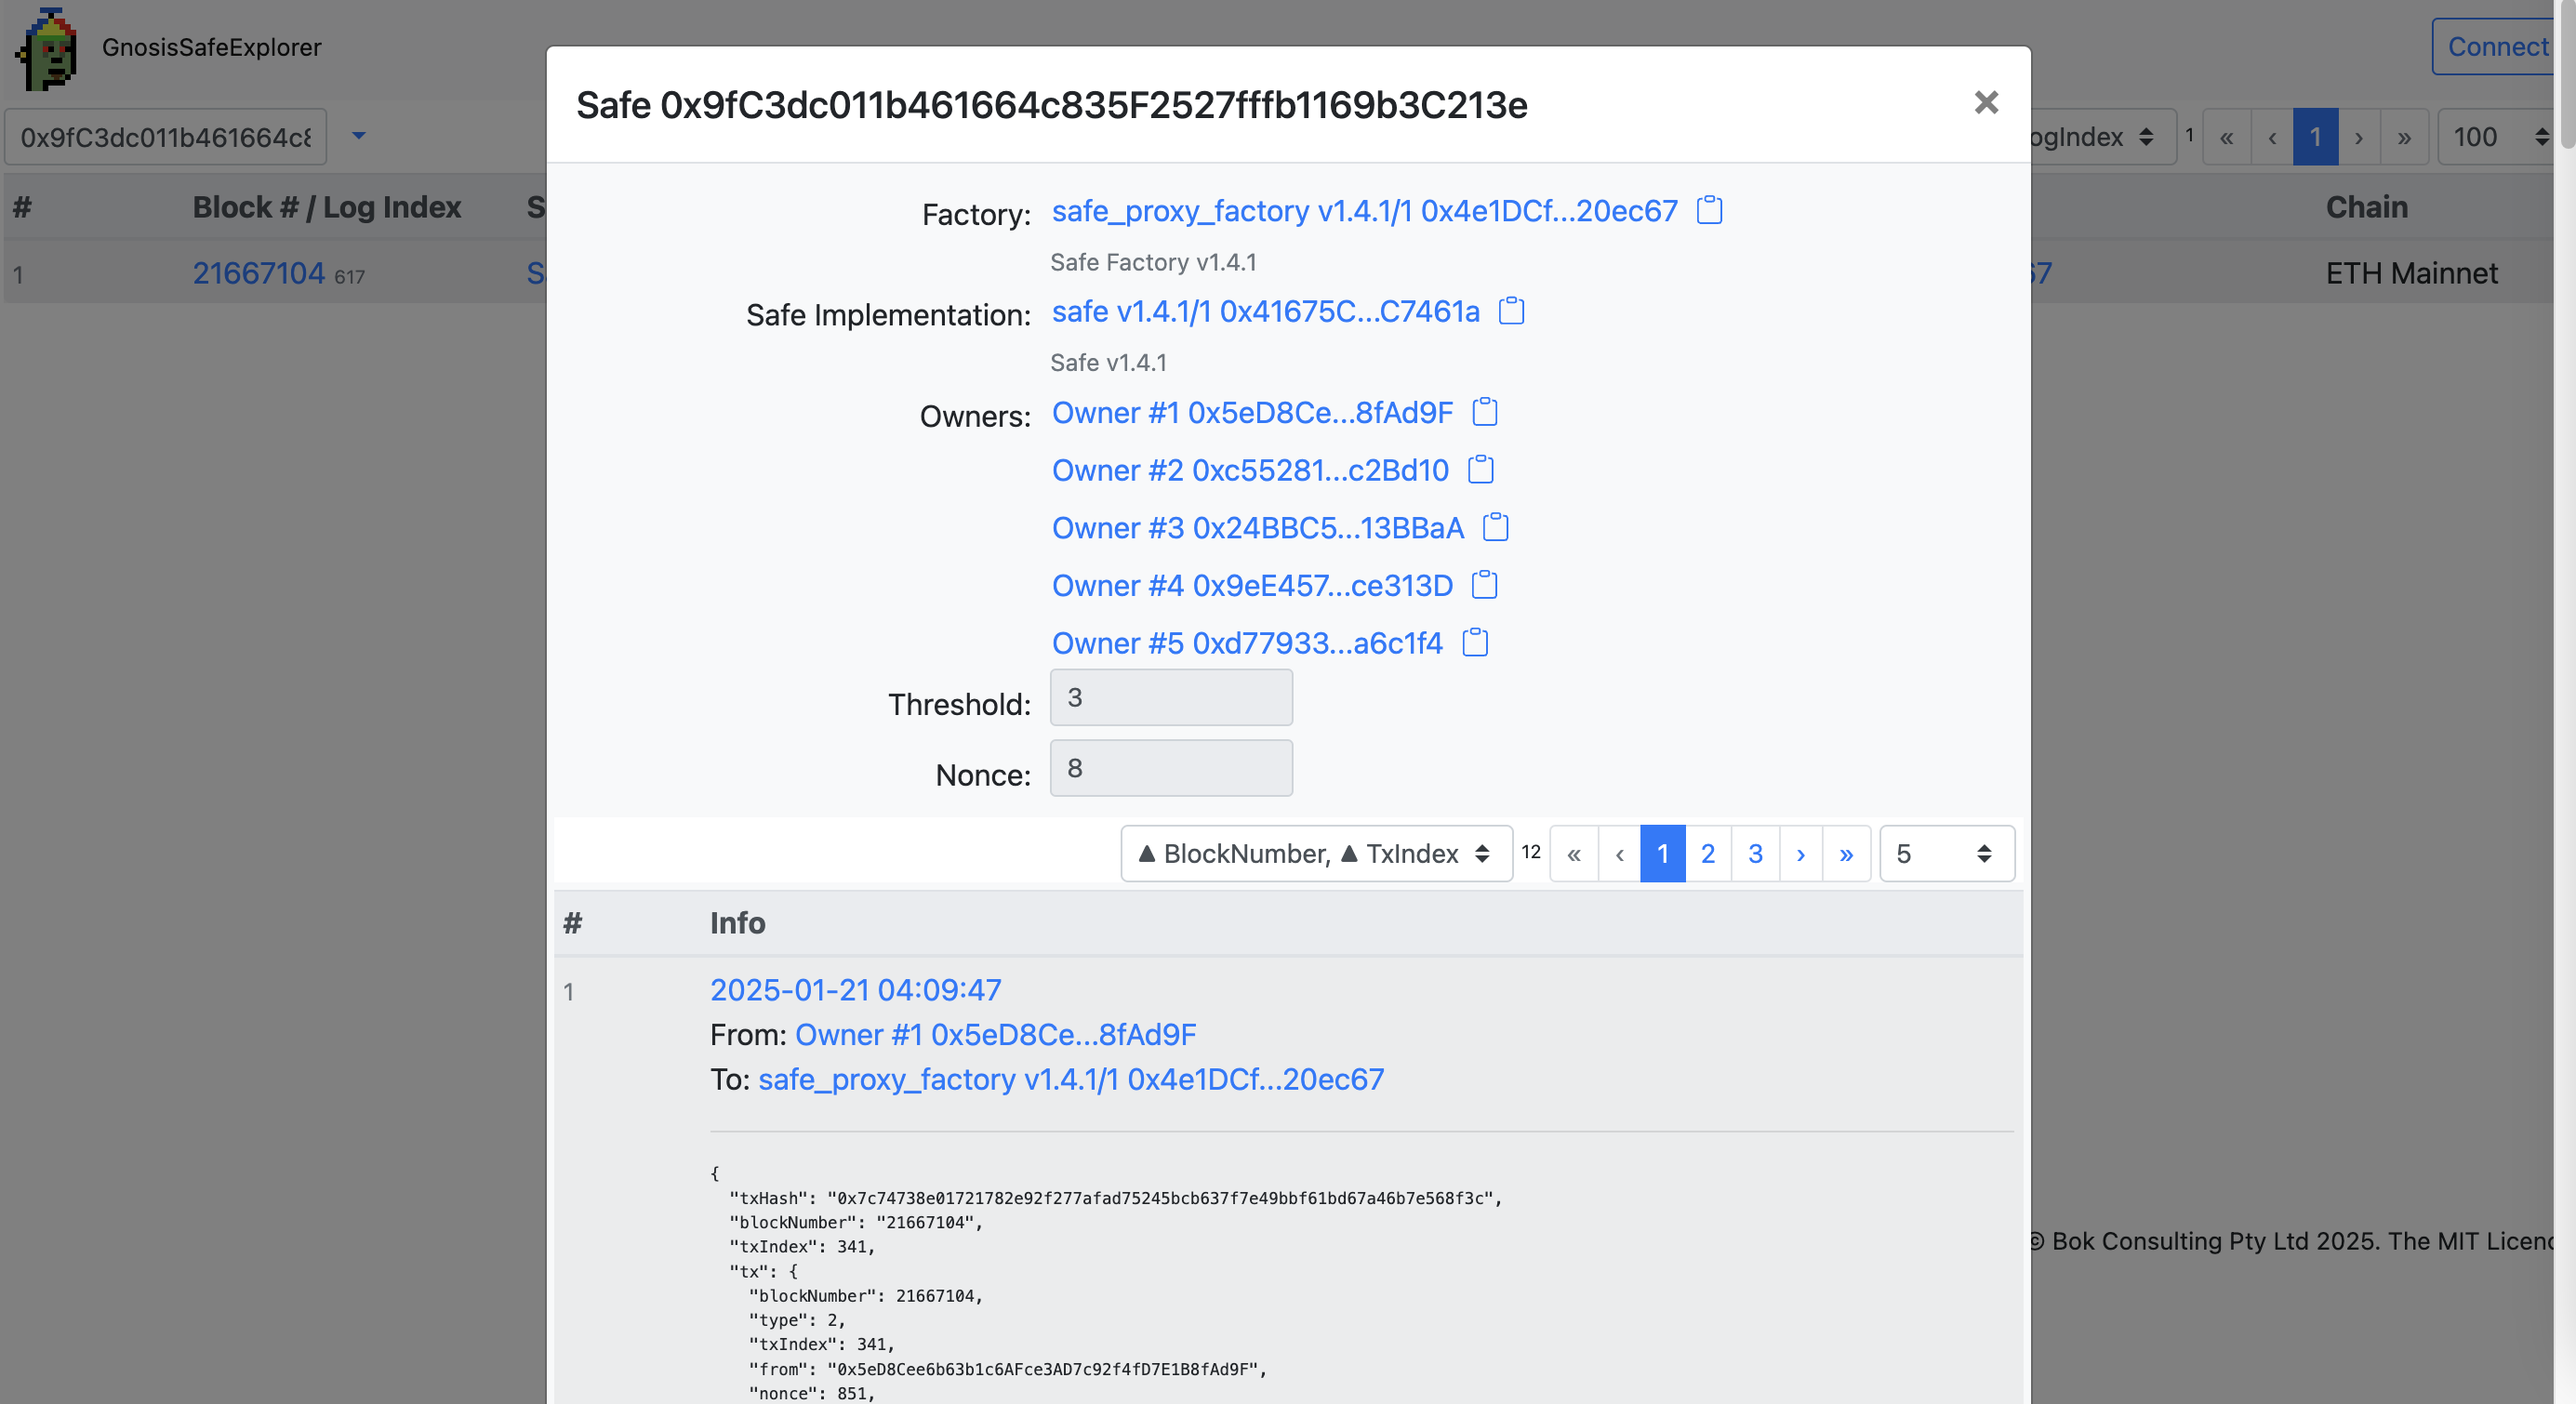
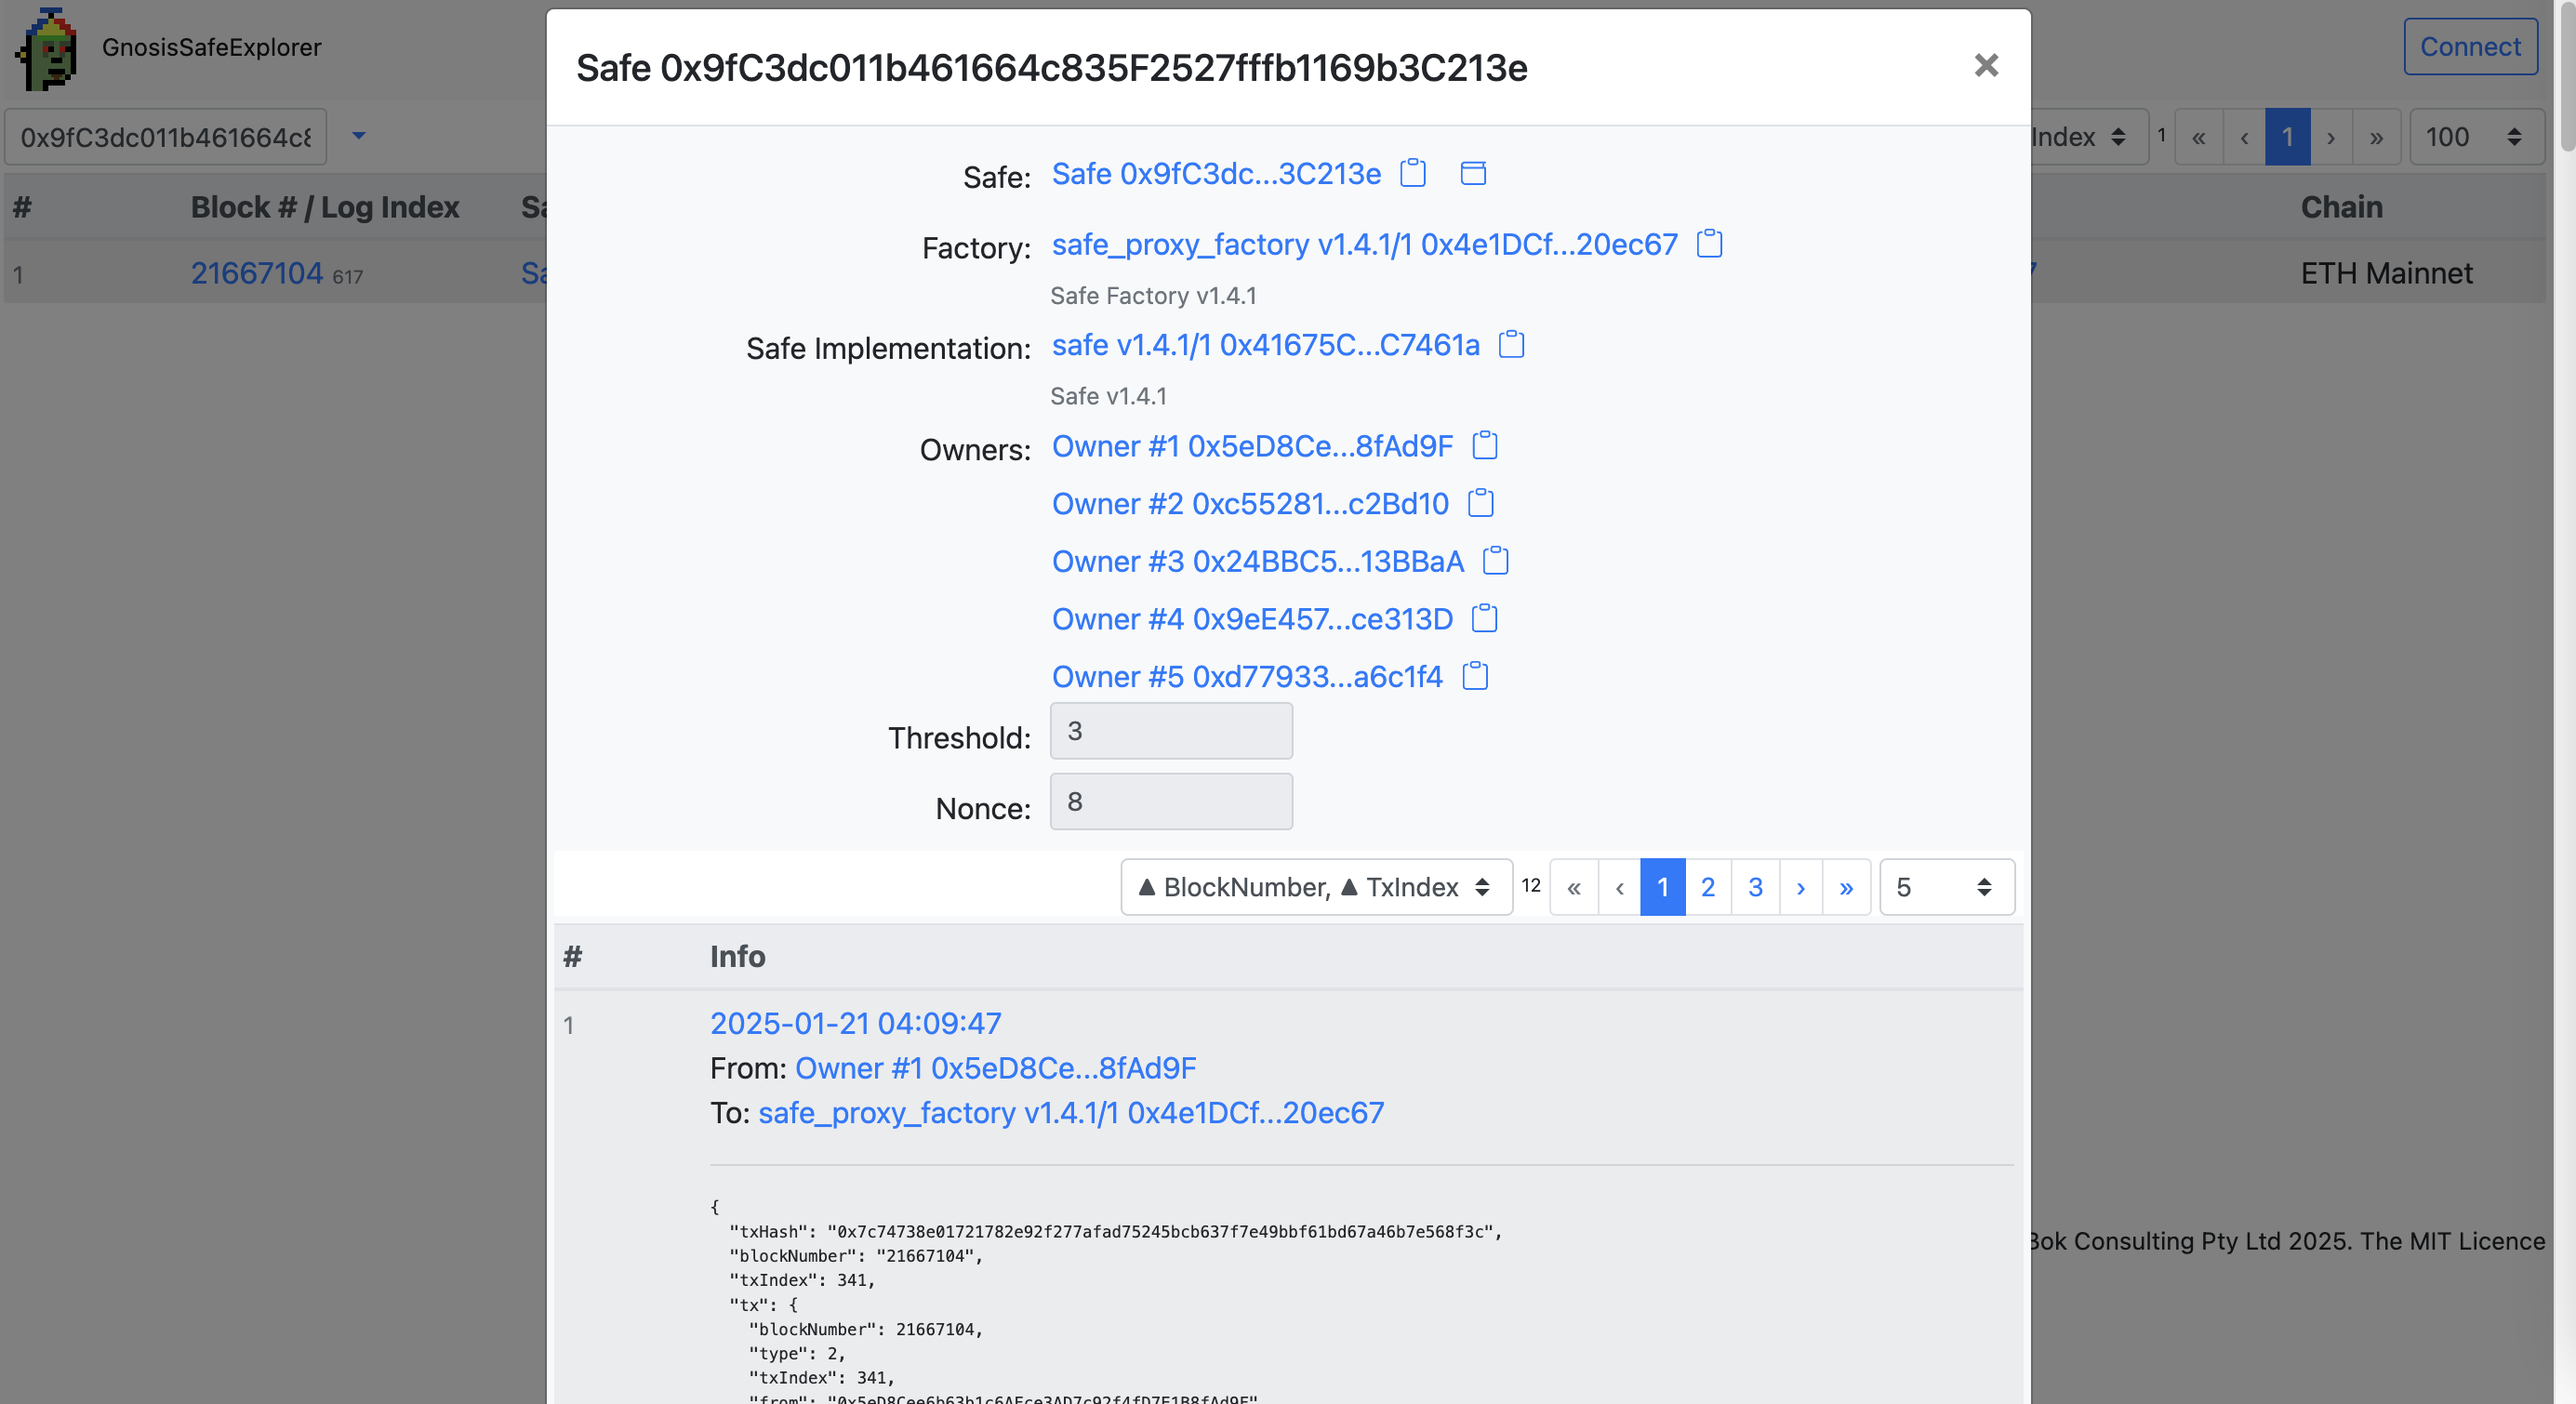
tidy

diff --git a/docs/index.html b/docs/index.html
@@ -73,6 +73,21 @@
           <template #modal-title>
             Safe {{ modalSafe.safe || '' }}
           </template>
+          <b-form-group label="Safe:" label-cols="4" label-align="right" class="m-0 p-0">
+            <b-input-group>
+              <b-button v-if="modalSafe.safe" :href="'https://etherscan.io/address/' + lookupAddress(modalSafe.safe)" variant="link" target="_blank" class="m-0 p-0 pt-1">
+                {{ lookupName(modalSafe.safe) }}
+              </b-button>
+              <b-input-group-append>
+                <b-button size="sm" @click="copyToClipboard(lookupAddress(modalSafe.safe));" variant="link">
+                  <b-icon-clipboard shift-v="-1" font-scale="1.1"></b-icon-clipboard>
+                </b-button>
+                <b-button v-if="modalSafe.safe" size="sm" :href="'https://app.safe.global/transactions/history?safe=eth:' + lookupAddress(modalSafe.safe)" v-b-popover.hover.bottom="'View in app.safe.global'" variant="link" target="_blank">
+                  <b-icon-wallet shift-v="-1" font-scale="1.1"></b-icon-wallet>
+                </b-button>
+              </b-input-group-append>
+            </b-input-group>
+          </b-form-group>
           <b-form-group label="Factory:" label-cols="4" label-align="right" class="m-0 p-0" :description="modalSafe.info.factoryVersion && ('Safe Factory v' + modalSafe.info.factoryVersion) || ''">
             <b-input-group>
               <b-button v-if="modalSafe.factory" :href="'https://etherscan.io/address/' + lookupAddress(modalSafe.factory)" variant="link" target="_blank" class="m-0 p-0 pt-1">
